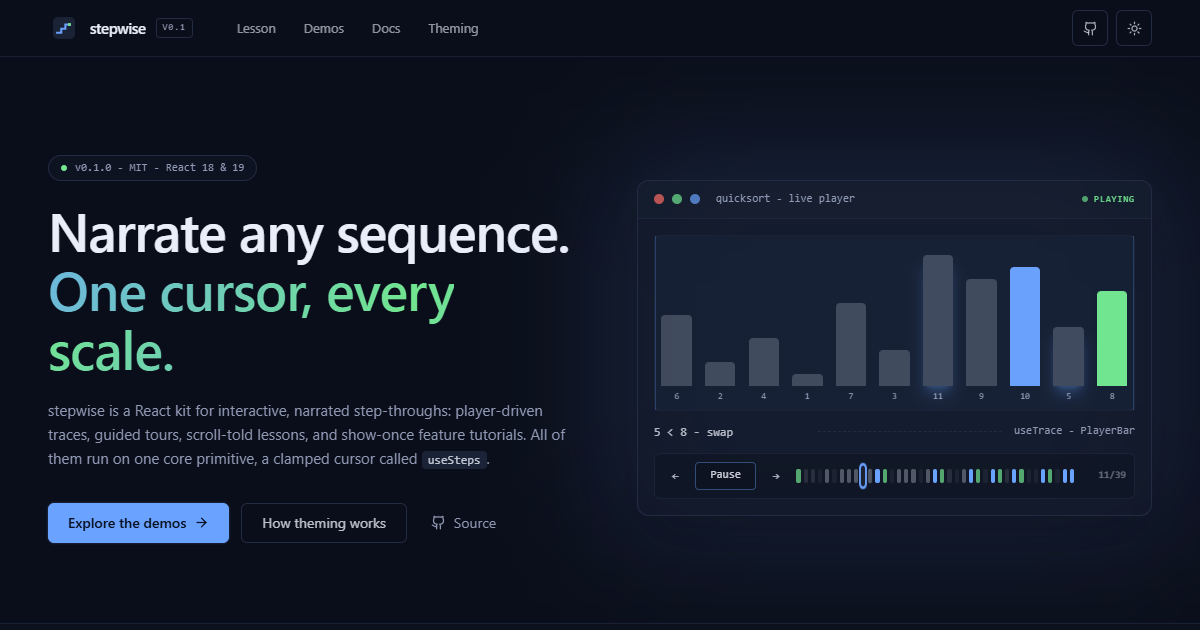
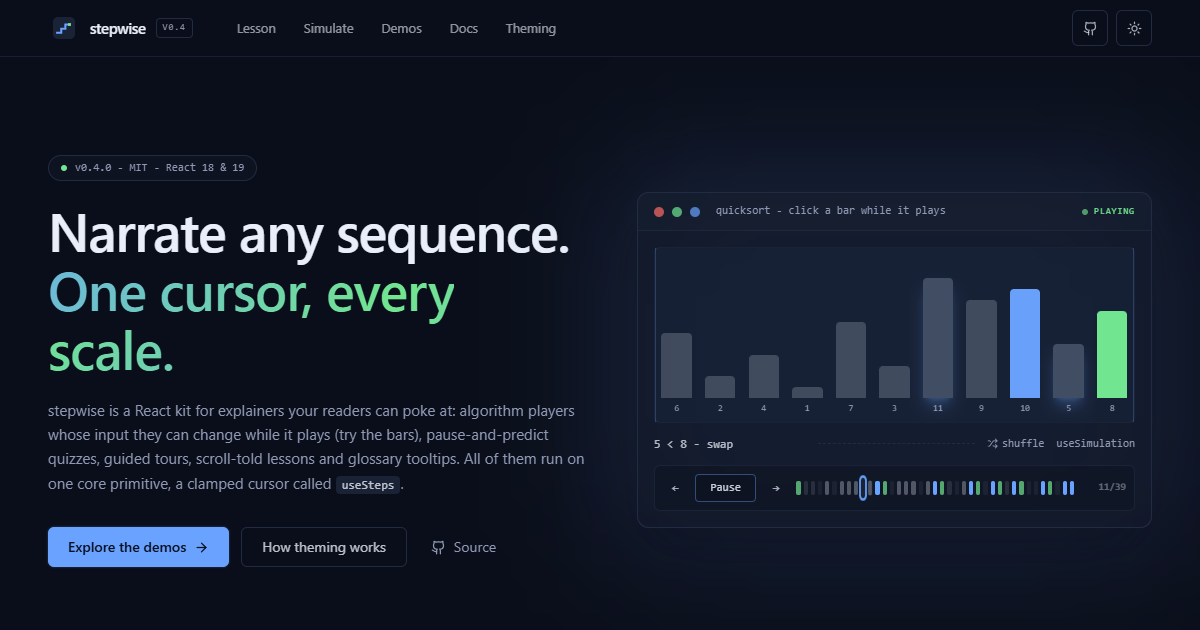
Hero you can edit while it plays; launch clips recorder
- Landing hero: quicksort on useSimulation; click a bar mid-run to change
  it, the sort re-runs and the player keeps its step (seeded shuffle too)
- Landing copy leads with what the hero shows
- hero.gif re-recorded with two bar edits on camera (click marker, since
  GIFs have no pointer); social/og images refreshed
- record-clips.mjs: launch clips into the gitignored launch/clips;
  record-helpers.mjs shared, DUMP_FRAMES for frame-by-frame review
- e2e: hero bar edit keeps the step (24 smoke tests)

diff --git a/apps/demo/app/hero-player.tsx b/apps/demo/app/hero-player.tsx
@@ -1,11 +1,16 @@
 "use client";
 
-import { PlayerBar, useTrace, type StepwiseStep } from "@sphynxoid/stepwise";
+import { useEffect, useState } from "react";
+import { Shuffle } from "lucide-react";
+import { PlayerBar, createRng, useSimulation, type Simulation, type StepwiseStep } from "@sphynxoid/stepwise";
 import { useSiteTheme } from "./theme-provider";
 
-// Quicksort (Lomuto partition) traced into frames at module scope. Each frame
-// snapshots the bar order plus what to highlight; bars are keyed by id so a
-// swap animates as two bars sliding past each other.
+// Quicksort (Lomuto partition) as a live simulation: the trace is computed
+// from the bar heights, so clicking a bar mid-run re-sorts the new input and
+// the playhead stays on the same step (every step's key names its moment:
+// which partition, which comparison). Bars are keyed by id, so a swap
+// animates as two bars sliding past each other, and an edited bar keeps its
+// place on screen.
 
 interface Bar {
   id: number;
@@ -21,15 +26,15 @@ type Frame = StepwiseStep<{
   sorted: number[];
 }>;
 
-const VALUES = [6, 2, 9, 4, 11, 1, 7, 3, 10, 5, 8];
-const MAX = Math.max(...VALUES);
+const INITIAL = [6, 2, 9, 4, 11, 1, 7, 3, 10, 5, 8] as const;
+const MAX = 12;
 
-const FRAMES: Frame[] = (() => {
-  const bars: Bar[] = VALUES.map((v, id) => ({ id, v }));
+const quicksort: Simulation<readonly number[], Frame> = function* (values) {
+  const bars: Bar[] = values.map((v, id) => ({ id, v }));
   const sorted = new Set<number>();
-  const out: Frame[] = [];
+  const frames: Frame[] = [];
   const push = (f: Omit<Frame, "bars" | "sorted">) =>
-    out.push({ ...f, bars: bars.map((b) => ({ ...b })), sorted: [...sorted] } as Frame);
+    frames.push({ ...f, bars: bars.map((b) => ({ ...b })), sorted: [...sorted] } as Frame);
   const swap = (a: number, b: number) => {
     [bars[a], bars[b]] = [bars[b], bars[a]];
   };
@@ -41,42 +46,64 @@ const FRAMES: Frame[] = (() => {
       return;
     }
     const pivot = bars[hi];
-    push({ tone: "accent", label: `Pivot ${pivot.v}`, pivot: pivot.id, active: [], lo, hi });
+    const part = `${lo}-${hi}`;
+    push({ key: `p${part}`, tone: "accent", label: `Pivot ${pivot.v}`, pivot: pivot.id, active: [], lo, hi });
     let i = lo;
     for (let j = lo; j < hi; j++) {
+      const key = `c${part}.${j}`;
       if (bars[j].v < pivot.v) {
         if (i !== j) {
-          push({ tone: "write", label: `${bars[j].v} < ${pivot.v} - swap`, pivot: pivot.id, active: [bars[i].id, bars[j].id], lo, hi });
+          push({ key, tone: "write", label: `${bars[j].v} < ${pivot.v} - swap`, pivot: pivot.id, active: [bars[i].id, bars[j].id], lo, hi });
           swap(i, j);
         } else {
-          push({ tone: "neutral", label: `${bars[j].v} < ${pivot.v} - keep`, pivot: pivot.id, active: [bars[j].id], lo, hi });
+          push({ key, tone: "neutral", label: `${bars[j].v} < ${pivot.v} - keep`, pivot: pivot.id, active: [bars[j].id], lo, hi });
         }
         i++;
       } else {
-        push({ tone: "idle", label: `${bars[j].v} >= ${pivot.v} - skip`, pivot: pivot.id, active: [bars[j].id], lo, hi });
+        push({ key, tone: "idle", label: `${bars[j].v} >= ${pivot.v} - skip`, pivot: pivot.id, active: [bars[j].id], lo, hi });
       }
     }
     swap(i, hi);
     sorted.add(pivot.id);
-    push({ tone: "good", label: `Place ${pivot.v}`, pivot: pivot.id, active: [], lo, hi });
+    push({ key: `s${part}`, tone: "good", label: `Place ${pivot.v}`, pivot: pivot.id, active: [], lo, hi });
     sort(lo, i - 1);
     sort(i + 1, hi);
   };
 
   sort(0, bars.length - 1);
   bars.forEach((b) => sorted.add(b.id));
-  push({ tone: "good", label: "Sorted", pivot: -1, active: [], lo: -1, hi: -1 });
-  return out;
-})();
+  push({ key: "done", tone: "good", label: "Sorted", pivot: -1, active: [], lo: -1, hi: -1 });
+  yield* frames;
+};
 
 export function HeroPlayer() {
   const { theme } = useSiteTheme();
-  const trace = useTrace(FRAMES, { autoPlay: true, baseDelayMs: 650 });
-  const { player } = trace;
-  const run = player.start;
-  // Frame 0 before the player starts; FRAMES is never empty.
-  const cur = trace.step!;
+  const [values, setValues] = useState<readonly number[]>(INITIAL);
+  const [seed, setSeed] = useState(1);
+  // Briefly says "re-ran" after an edit, so the trick is visible.
+  const [edited, setEdited] = useState(0);
+  useEffect(() => {
+    if (!edited) return;
+    const id = setTimeout(() => setEdited(0), 1800);
+    return () => clearTimeout(id);
+  }, [edited]);
+
+  const sim = useSimulation(quicksort, values, { autoPlay: true, baseDelayMs: 650 });
+  const { player } = sim;
+  // Frame 0 before the player starts; the trace is never empty.
+  const cur = sim.step!;
   const slot = 100 / cur.bars.length;
+
+  const edit = (next: readonly number[]) => {
+    setValues(next);
+    setEdited((n) => n + 1);
+  };
+  // Each click raises a bar by 3, wrapping back to the bottom.
+  const bump = (id: number) => edit(values.map((v, i) => (i === id ? ((v + 2) % MAX) + 1 : v)));
+  const shuffle = () => {
+    edit(createRng(seed).shuffle(values));
+    setSeed((s) => s + 1);
+  };
 
   return (
     <div className="relative">
@@ -90,18 +117,18 @@ export function HeroPlayer() {
           <span className="h-2.5 w-2.5 rounded-full bg-accent/70" />
           <span className="h-2.5 w-2.5 rounded-full bg-primary/70" />
           <span className="ml-2 text-[11px] font-mono text-muted-foreground">
-            quicksort - live player
+            quicksort - click a bar while it plays
           </span>
-          <span className="ml-auto flex items-center gap-1.5 text-[9px] font-mono uppercase tracking-widest text-accent">
+          <span className="ml-auto flex items-center gap-1.5 text-[9px] font-mono uppercase tracking-widest text-accent" data-testid="hero-status">
             <span className={`h-1.5 w-1.5 rounded-full bg-accent ${player.playing ? "animate-pulse" : ""}`} />
-            {player.ended ? "complete" : player.playing ? "playing" : "paused"}
+            {edited ? "re-ran from your edit" : player.ended ? "complete" : player.playing ? "playing" : "paused"}
           </span>
         </div>
         <div className="p-4 space-y-3">
           <div
             className="relative h-44 rounded-md border border-border/60 bg-background/40"
-            role="img"
-            aria-label={`Quicksort, frame ${trace.frame + 1} of ${FRAMES.length}: ${cur.label}`}
+            role="group"
+            aria-label={`Quicksort, frame ${sim.frame + 1} of ${sim.steps.length}: ${cur.label}. Click a bar to change its value.`}
           >
             {/* the active partition range */}
             {cur.lo >= 0 && (
@@ -123,30 +150,42 @@ export function HeroPlayer() {
                     ? "bg-accent/45"
                     : "bg-foreground/20";
               return (
-                <div
+                <button
                   key={b.id}
-                  className="absolute bottom-0 flex flex-col items-center justify-end pb-1.5 transition-[left] duration-300 ease-out"
+                  type="button"
+                  onClick={() => bump(b.id)}
+                  aria-label={`Bar ${b.v}: raise it`}
+                  className="group absolute bottom-0 flex flex-col items-center justify-end pb-1.5 transition-[left] duration-300 ease-out cursor-pointer outline-none focus-visible:ring-1 focus-visible:ring-primary/60 rounded-sm"
                   style={{ left: `${pos * slot}%`, width: `${slot}%`, height: "100%" }}
                 >
-                  <div
-                    className={`w-[70%] rounded-t-sm transition-colors duration-200 ${color} ${isActive ? "shadow-lg shadow-primary/30" : ""}`}
+                  <span
+                    className={`w-[70%] rounded-t-sm transition-[height,background-color] duration-200 group-hover:brightness-125 ${color} ${isActive ? "shadow-lg shadow-primary/30" : ""}`}
                     style={{ height: `${(b.v / MAX) * 78}%` }}
                   />
                   <span className="mt-1 text-[9px] font-mono text-muted-foreground">{b.v}</span>
-                </div>
+                </button>
               );
             })}
           </div>
           <div className="flex items-center gap-3">
-            <span className="text-[12px] font-mono text-foreground/75 min-w-[9.5rem]">{cur.label}</span>
+            <span className="text-[12px] font-mono text-foreground/75 min-w-[9.5rem]" data-testid="hero-label">
+              {cur.label}
+            </span>
             <span className="flex-1 border-t border-dashed border-border" />
-            <span className="text-[11px] font-mono text-muted-foreground">useTrace - PlayerBar</span>
+            <button
+              type="button"
+              onClick={shuffle}
+              className="inline-flex items-center gap-1 text-[11px] font-mono text-muted-foreground transition hover:text-foreground"
+            >
+              <Shuffle size={11} /> shuffle
+            </button>
+            <span className="text-[11px] font-mono text-muted-foreground">useSimulation</span>
           </div>
           <PlayerBar
             player={player}
-            toneAt={trace.toneAt}
-            titleAt={trace.titleAt}
-            onEmpty={run}
+            toneAt={sim.toneAt}
+            titleAt={sim.titleAt}
+            onEmpty={player.start}
             emptyHint="press play"
             theme={theme}
             className="rounded-md border border-border/60 bg-background/40"

diff --git a/apps/demo/app/page.tsx b/apps/demo/app/page.tsx
@@ -150,10 +150,11 @@ export default function Home() {
                 <span className="sw-gradient-text">One cursor, every scale.</span>
               </h1>
               <p className="mt-5 max-w-xl text-[15px] leading-relaxed text-muted-foreground sw-fade-up sw-fade-up-2">
-                stepwise is a React kit for interactive, narrated step-throughs:
-                player-driven traces, guided tours, scroll-told lessons, and
-                show-once feature tutorials. All of them run on one core
-                primitive, a clamped cursor called{" "}
+                stepwise is a React kit for explainers your readers can poke
+                at: algorithm players whose input they can change while it
+                plays (try the bars), pause-and-predict quizzes, guided tours,
+                scroll-told lessons and glossary tooltips. All of them run on
+                one core primitive, a clamped cursor called{" "}
                 <code className="rounded bg-secondary px-1.5 py-0.5 font-mono text-[12px] text-foreground/80">
                   useSteps
                 </code>

diff --git a/apps/demo/e2e/smoke.spec.ts b/apps/demo/e2e/smoke.spec.ts
@@ -189,3 +189,15 @@ test("AI docs: /llms.txt indexes, /llms-full.txt carries the guide and the API r
   expect(full).toContain("### useSimulation");
   expect(full).toContain("syncInput");
 });
+
+test("hero: clicking a bar mid-run re-runs the sort and keeps the player's step", async ({ page }) => {
+  await page.emulateMedia({ reducedMotion: "reduce" });
+  await page.goto("/");
+  const card = page.locator(".sw-card-glow").first();
+  const slider = card.getByRole("slider", { name: "Frames" });
+  for (let i = 0; i < 6; i++) await card.getByRole("button", { name: "Next step" }).click();
+  const frame = await slider.getAttribute("aria-valuenow");
+  await card.getByRole("button", { name: /^Bar / }).nth(7).click();
+  await expect(card.getByTestId("hero-status")).toContainText("re-ran from your edit");
+  await expect(slider).toHaveAttribute("aria-valuenow", frame!);
+});

diff --git a/AGENTS.md b/AGENTS.md
@@ -215,7 +215,7 @@ What each page must keep showcasing (the feature matrix):
 
 | Page       | Showcases                                                                      |
 |------------|--------------------------------------------------------------------------------|
-| `/`        | SaaS landing: visual hero player (`HeroPlayer`: quicksort bars on `useTrace` + `PlayerBar`), one-primitive band, feature grid (lesson featured), theming section, light/dark toggle |
+| `/`        | SaaS landing: visual hero player (`HeroPlayer`: quicksort on `useSimulation` + `PlayerBar`; click a bar mid-run to change it, the sort re-runs and keeps its step), one-primitive band, feature grid (lesson featured), theming section, light/dark toggle |
 | `/lesson`  | **Flagship composition**: `useChapters` + `ChapterNav` scroll lesson, embedded `useTrace` Dijkstra player (chapter → frame seek while paused), `useGuidedTour` intro whose steps target sections, glossary `Term`s + `GlossaryAppendix`, live three-cursor readout |
 | `/simulate`| `useSimulation` live trace (edit input mid-play, playhead keeps its step via `key`), seeded `createRng`, `#in=…&frame=…` exact replay links via `syncInput` (no hand-rolled linking), predict mode: `holdAt` checkpoints + manual `useEvaluator` |
 | `/live`    | `useTrace({ follow })` over a growing event stream, `PlayerBar live` badge, scrub back stays put, Go live (L) returns, burst to show catch-up |
@@ -255,11 +255,11 @@ the library's theming story:
 1. Library: `npm run build -w @sphynxoid/stepwise` → "ESM ⚡ Build success" +
    "DTS ⚡ Build success". Tests from `packages/stepwise`.
 2. Demo: `cd apps/demo && npm run build` → "19/19 static pages" (12 routes + OG image + `/llms.txt` + `/llms-full.txt`).
-   Then `PW_CHANNEL=msedge npx playwright test` (23 smoke tests: every route
+   Then `PW_CHANNEL=msedge npx playwright test` (24 smoke tests: every route
    without console errors, the /eviction redirect, tour card placement - the
    Tailwind `@source` regression guard - player, tour, keyboard glossary
    tooltip, lesson composition, /compare alignment, /simulate exact linked frame +
-   re-anchoring after edits, /simulate predict loop, /live follow + Go live, /llms.txt + /llms-full.txt). Set `PW_PORT` if 3123 is taken.
+   re-anchoring after edits, /simulate predict loop, /live follow + Go live, /llms.txt + /llms-full.txt, hero bar edit keeps the step). Set `PW_PORT` if 3123 is taken.
    At the default worker count this 16-thread box saturates (Edge launches take
    ~6 s, the server's HTML ~20 s) and route-load tests time out on
    `networkidle`; pass `--workers=2` locally. CI's small runners are fine.
@@ -316,7 +316,10 @@ signature changes are major while we're pre-1.0.
   workspace), so it doubles as a consumer smoke test. Bump its range on
   minor releases. README media (`docs/assets/hero.gif`, `social.png`,
   `og.png` → `app/opengraph-image.png`) is regenerated by
-  `apps/demo/scripts/record-media.mjs` against a running build.
+  `apps/demo/scripts/record-media.mjs` against a running build (the hero GIF
+  edits two bars mid-run on camera). `record-clips.mjs` records the launch
+  clips into the gitignored `launch/clips/`. Both share `record-helpers.mjs`;
+  `DUMP_FRAMES=<dir>` also writes every frame as a PNG for review.
 - `launch/` is gitignored: private launch drafts and playbook.
 
 - **Portfolio integration: RESOLVED** — the portfolio consumes the npm

diff --git a/packages/stepwise/README.md b/packages/stepwise/README.md
@@ -4,7 +4,7 @@
 
 **[Live demos](https://stepwise.thesphynx.net)** · [API reference](https://stepwise.thesphynx.net/docs) · [StackBlitz starter](https://stackblitz.com/github/TheSphynxoid/stepwise/tree/master/examples/vite-starter) · [GitHub](https://github.com/TheSphynxoid/stepwise)
 
-<img src="https://raw.githubusercontent.com/TheSphynxoid/stepwise/master/docs/assets/hero.gif" alt="A quicksort trace playing in a stepwise PlayerBar" width="516">
+<img src="https://raw.githubusercontent.com/TheSphynxoid/stepwise/master/docs/assets/hero.gif" alt="A quicksort trace playing in a stepwise PlayerBar: bars swap as the partition advances; partway through, two bars are clicked and change height, the sort re-runs on the new input and the player stays on the same step" width="516">
 
 Frames in a trace, chapters in a lesson, lessons in a notebook, and tour steps are the same thing at the core: a clamped cursor over an ordered sequence. Timers, tour effects, scroll tracking, and third-party presenters are policies and adapters layered on top.
 

diff --git a/README.md b/README.md
@@ -11,7 +11,7 @@
 
 [**Live demos**](https://stepwise.thesphynx.net) · [API reference](https://stepwise.thesphynx.net/docs) · [Try it on StackBlitz](https://stackblitz.com/github/TheSphynxoid/stepwise/tree/master/examples/vite-starter)
 
-<img src="docs/assets/hero.gif" alt="A quicksort trace playing in a stepwise PlayerBar: bars swap as the partition advances, the scrubber below shows every frame colored by tone" width="516">
+<img src="docs/assets/hero.gif" alt="A quicksort trace playing in a stepwise PlayerBar: bars swap as the partition advances; partway through, two bars are clicked and change height, the sort re-runs on the new input and the player stays on the same step" width="516">
 
 </div>
 
